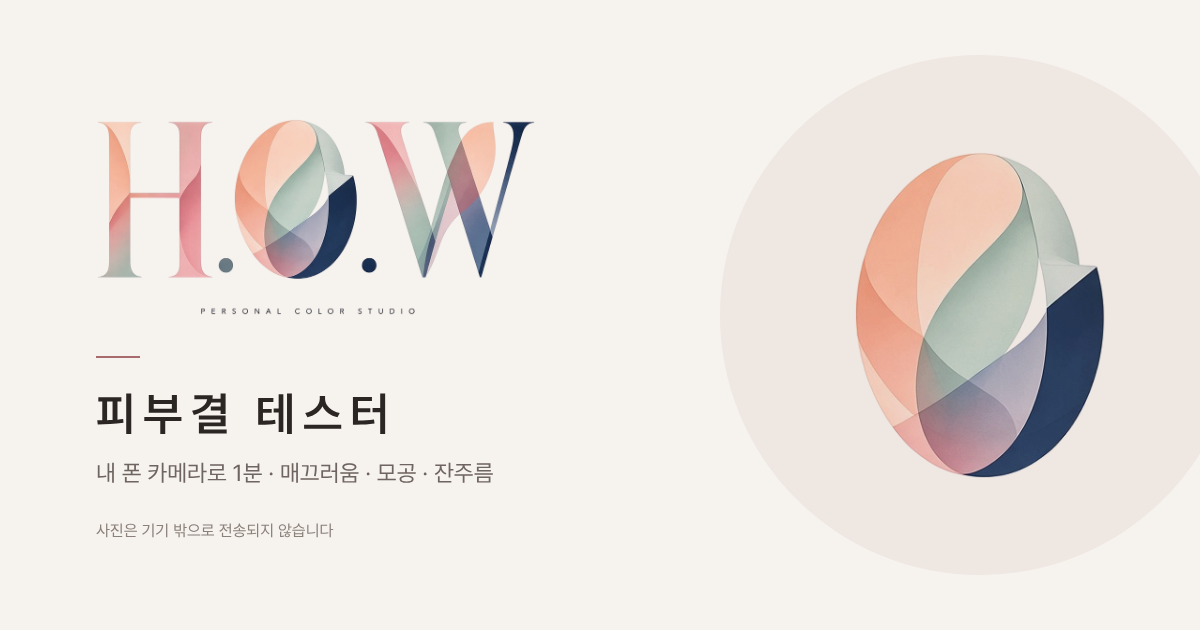
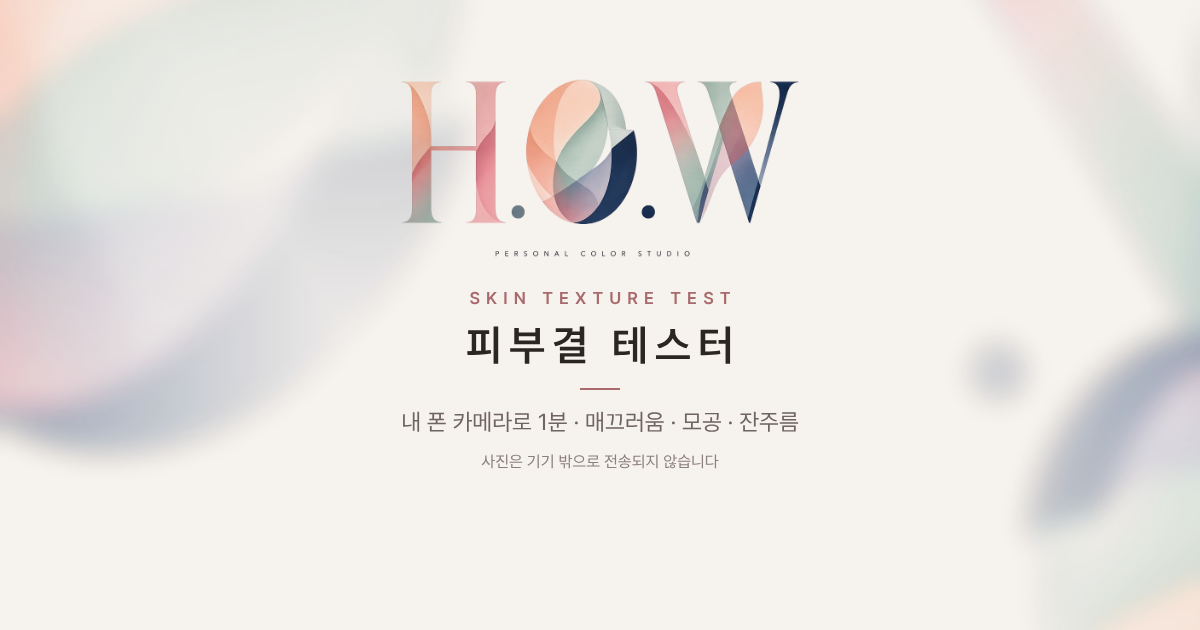
v1.8.0: 로고 수채 모티프로 앱 화면 · 리포트 · 공유 카드 · OG 비주얼 통일

diff --git a/index.html b/index.html
@@ -25,30 +25,32 @@
 <link rel="canonical" href="https://handj1998-del.github.io/skin-tester/">
 <link rel="preload" href="fonts/cg300.woff2" as="font" type="font/woff2" crossorigin>
 <link rel="manifest" href="manifest.webmanifest">
-<link rel="apple-touch-icon" href="icons/apple-touch-icon.png?v=1.7.1">
+<link rel="apple-touch-icon" href="icons/apple-touch-icon.png?v=1.8.0">
 <meta name="apple-mobile-web-app-title" content="피부결테스터">
 <meta name="application-name" content="피부결테스터">
 <meta name="apple-mobile-web-app-status-bar-style" content="default">
 <meta name="mobile-web-app-capable" content="yes">
-<link rel="icon" type="image/svg+xml" href="icons/favicon.svg?v=1.7.1">
-<link rel="icon" type="image/png" sizes="32x32" href="icons/favicon-32.png?v=1.7.1">
+<link rel="icon" type="image/svg+xml" href="icons/favicon.svg?v=1.8.0">
+<link rel="icon" type="image/png" sizes="32x32" href="icons/favicon-32.png?v=1.8.0">
 <link rel="preconnect" href="https://cdn.jsdelivr.net">
 <link rel="stylesheet" href="https://cdn.jsdelivr.net/gh/orioncactus/pretendard@v1.3.9/dist/web/static/pretendard.min.css" media="print" onload="this.media='all'">
 <noscript><link rel="stylesheet" href="https://cdn.jsdelivr.net/gh/orioncactus/pretendard@v1.3.9/dist/web/static/pretendard.min.css"></noscript>
-<link rel="stylesheet" href="style.css?v=1.7.1">
+<link rel="stylesheet" href="style.css?v=1.8.0">
 </head>
 <body>
 <div id="app">
 
   <!-- 1. 인트로 -->
-  <main><section id="screen-intro" class="screen active" aria-label="시작">
+  <main><section id="screen-intro" class="screen motif-bg active" aria-label="시작">
     <div class="intro-fold">
       <header class="brand-bar"><button class="refresh-btn" id="btn-refresh" type="button" aria-label="새로고침 (최신 버전 불러오기)"><svg class="i" viewBox="0 0 24 24" aria-hidden="true" fill="none" stroke="currentColor" stroke-width="1.4" stroke-linecap="round" stroke-linejoin="round"><path d="M20 11a8 8 0 1 0-2.3 5.7"/><path d="M20 5v6h-6"/></svg><span>새로고침</span></button></header>
       <div class="hero">
         <div class="hero-seal">
-          <img src="logo-full.png?v=1.7.1" srcset="logo-full@2x.png?v=1.7.1 2x, logo-full@3x.png?v=1.7.1 3x" alt="H.O.W Personal Color Studio" class="hero-logo" width="156" height="70">
+          <img src="logo-full.png?v=1.8.0" srcset="logo-full@2x.png?v=1.8.0 2x, logo-full@3x.png?v=1.8.0 3x" alt="H.O.W Personal Color Studio" class="hero-logo" width="156" height="70">
         </div>
+        <p class="hero-kicker">SKIN TEXTURE TEST</p>
         <h1>피부결 테스터</h1>
+        <i class="hero-rule" aria-hidden="true"></i>
         <p class="sub">폰 카메라로 매끄러움 · 모공 · 잔주름을 분석해요</p>
         <p class="intro-store" id="intro-store" hidden></p>
       </div>
@@ -146,8 +148,8 @@
   </section>
 
   <!-- 4. 결과 -->
-  <section id="screen-result" class="screen">
-    <header class="topbar"><button class="icon-btn plain" id="btn-res-home" aria-label="처음으로">‹</button><span class="topbar-title"><img src="logo.png?v=1.7.1" srcset="logo@2x.png?v=1.7.1 2x, logo@3x.png?v=1.7.1 3x" alt="H.O.W" class="topbar-logo" width="32" height="12"><em>분석 결과</em></span><span class="date" id="res-date"></span></header>
+  <section id="screen-result" class="screen motif-bg">
+    <header class="topbar"><button class="icon-btn plain" id="btn-res-home" aria-label="처음으로">‹</button><span class="topbar-title"><img src="logo.png?v=1.8.0" srcset="logo@2x.png?v=1.8.0 2x, logo@3x.png?v=1.8.0 3x" alt="H.O.W" class="topbar-logo" width="32" height="12"><em>분석 결과</em></span><span class="date" id="res-date"></span></header>
     <div class="card score-card needs-valid">
       <div class="ring" id="ring" role="img" aria-label="피부결 점수"><svg viewBox="0 0 120 120" aria-hidden="true"><circle cx="60" cy="60" r="52" class="track"/><circle cx="60" cy="60" r="52" class="bar" id="ring-bar"/></svg>
         <div class="ring-text"><b id="res-overall">0</b><small>피부결 점수</small></div></div>
@@ -199,8 +201,8 @@
   </section>
 
   <!-- 6. 얼굴 전체 분석 안내 -->
-  <section id="screen-face-intro" class="screen" aria-label="얼굴 전체 분석">
-    <header class="topbar"><button class="icon-btn plain" id="btn-fi-home" aria-label="처음으로">‹</button><span class="topbar-title"><img src="logo.png?v=1.7.1" srcset="logo@2x.png?v=1.7.1 2x, logo@3x.png?v=1.7.1 3x" alt="H.O.W" class="topbar-logo" width="32" height="12"><em>얼굴 전체 분석</em></span><span class="date">Beta</span></header>
+  <section id="screen-face-intro" class="screen motif-bg" aria-label="얼굴 전체 분석">
+    <header class="topbar"><button class="icon-btn plain" id="btn-fi-home" aria-label="처음으로">‹</button><span class="topbar-title"><img src="logo.png?v=1.8.0" srcset="logo@2x.png?v=1.8.0 2x, logo@3x.png?v=1.8.0 3x" alt="H.O.W" class="topbar-logo" width="32" height="12"><em>얼굴 전체 분석</em></span><span class="date">Beta</span></header>
     <div class="card face-intro">
       <svg class="fi-mark" viewBox="0 0 120 140" aria-hidden="true"><ellipse cx="60" cy="70" rx="44" ry="58" fill="none" stroke="#2b2523" stroke-opacity=".35" stroke-width="1.2"/><path d="M40 46h40M56 92h8" stroke="#a86a6c" stroke-width="1.2" stroke-linecap="round"/><circle cx="38" cy="78" r="9" fill="#a86a6c" fill-opacity=".18"/><circle cx="82" cy="78" r="9" fill="#a86a6c" fill-opacity=".18"/><path d="M60 52v26" stroke="#c4a050" stroke-opacity=".6" stroke-width="6" stroke-linecap="round"/></svg>
       <h2>얼굴 전체 분석</h2>
@@ -225,8 +227,8 @@
   </section>
 
   <!-- 7. 얼굴 전체 분석 결과 -->
-  <section id="screen-face" class="screen" aria-label="얼굴 분석 결과">
-    <header class="topbar"><button class="icon-btn plain" id="btn-face-home" aria-label="처음으로">‹</button><span class="topbar-title"><img src="logo.png?v=1.7.1" srcset="logo@2x.png?v=1.7.1 2x, logo@3x.png?v=1.7.1 3x" alt="H.O.W" class="topbar-logo" width="32" height="12"><em>얼굴 분석</em></span><span class="date" id="face-date"></span></header>
+  <section id="screen-face" class="screen motif-bg" aria-label="얼굴 분석 결과">
+    <header class="topbar"><button class="icon-btn plain" id="btn-face-home" aria-label="처음으로">‹</button><span class="topbar-title"><img src="logo.png?v=1.8.0" srcset="logo@2x.png?v=1.8.0 2x, logo@3x.png?v=1.8.0 3x" alt="H.O.W" class="topbar-logo" width="32" height="12"><em>얼굴 분석</em></span><span class="date" id="face-date"></span></header>
     <div class="card invalid-card face-invalid" id="face-invalid" role="alert" hidden>
       <canvas id="face-invalid-thumb" width="240" height="240" aria-hidden="true"></canvas>
       <h2>측정할 수 없는 사진이에요</h2>
@@ -271,8 +273,8 @@
   </section>
 
   <!-- 8. 부위별 종합 안내 -->
-  <section id="screen-zones-intro" class="screen" aria-label="부위별 종합 측정">
-    <header class="topbar"><button class="icon-btn plain" id="btn-zi-home" aria-label="처음으로">‹</button><span class="topbar-title"><img src="logo.png?v=1.7.1" srcset="logo@2x.png?v=1.7.1 2x, logo@3x.png?v=1.7.1 3x" alt="H.O.W" class="topbar-logo" width="32" height="12"><em>부위별 종합</em></span><span class="date"></span></header>
+  <section id="screen-zones-intro" class="screen motif-bg" aria-label="부위별 종합 측정">
+    <header class="topbar"><button class="icon-btn plain" id="btn-zi-home" aria-label="처음으로">‹</button><span class="topbar-title"><img src="logo.png?v=1.8.0" srcset="logo@2x.png?v=1.8.0 2x, logo@3x.png?v=1.8.0 3x" alt="H.O.W" class="topbar-logo" width="32" height="12"><em>부위별 종합</em></span><span class="date"></span></header>
     <div class="card zi-card">
       <div class="zi-ill" id="zi-ill" aria-hidden="true"></div>
       <h2>부위별 종합 측정</h2>
@@ -296,7 +298,7 @@
 
   <!-- 9. 부위별 단계 결과 -->
   <section id="screen-zone-step" class="screen" aria-label="부위 측정 결과">
-    <header class="topbar"><button class="icon-btn plain" id="btn-zs-home" aria-label="처음으로">‹</button><span class="topbar-title"><img src="logo.png?v=1.7.1" srcset="logo@2x.png?v=1.7.1 2x, logo@3x.png?v=1.7.1 3x" alt="H.O.W" class="topbar-logo" width="32" height="12"><em>부위별 종합</em></span><span class="date" id="zs-prog"></span></header>
+    <header class="topbar"><button class="icon-btn plain" id="btn-zs-home" aria-label="처음으로">‹</button><span class="topbar-title"><img src="logo.png?v=1.8.0" srcset="logo@2x.png?v=1.8.0 2x, logo@3x.png?v=1.8.0 3x" alt="H.O.W" class="topbar-logo" width="32" height="12"><em>부위별 종합</em></span><span class="date" id="zs-prog"></span></header>
     <div class="card zs-card">
       <div class="zs-head"><canvas id="zs-thumb" width="240" height="240" aria-hidden="true"></canvas><div><span class="rec-label" id="zs-label">1 / 5</span><b id="zs-name">이마</b><p id="zs-sum"></p></div></div>
       <div class="zs-metrics" id="zs-metrics"></div>
@@ -311,7 +313,7 @@
 
   <!-- 9b. 부위별 · 카메라 앱/앨범 사진으로 단계별 촬영 -->
   <section id="screen-zone-up" class="screen" aria-label="부위별 사진 촬영">
-    <header class="topbar"><button class="icon-btn plain" id="btn-zu-back" aria-label="뒤로">‹</button><span class="topbar-title"><img src="logo.png?v=1.7.1" srcset="logo@2x.png?v=1.7.1 2x, logo@3x.png?v=1.7.1 3x" alt="H.O.W" class="topbar-logo" width="32" height="12"><em>부위별 종합</em></span><span class="date" id="zu-prog"></span></header>
+    <header class="topbar"><button class="icon-btn plain" id="btn-zu-back" aria-label="뒤로">‹</button><span class="topbar-title"><img src="logo.png?v=1.8.0" srcset="logo@2x.png?v=1.8.0 2x, logo@3x.png?v=1.8.0 3x" alt="H.O.W" class="topbar-logo" width="32" height="12"><em>부위별 종합</em></span><span class="date" id="zu-prog"></span></header>
     <div class="card zi-card zu-card">
       <div class="zi-ill" id="zu-ill" aria-hidden="true"></div>
       <span class="rec-label" id="zu-label">1 / 5 단계</span>
@@ -329,8 +331,8 @@
   </section>
 
   <!-- 10. 부위별 종합 결과 -->
-  <section id="screen-zones" class="screen" aria-label="부위별 종합 결과">
-    <header class="topbar"><button class="icon-btn plain" id="btn-zr-home" aria-label="처음으로">‹</button><span class="topbar-title"><img src="logo.png?v=1.7.1" srcset="logo@2x.png?v=1.7.1 2x, logo@3x.png?v=1.7.1 3x" alt="H.O.W" class="topbar-logo" width="32" height="12"><em>종합 결과</em></span><span class="date" id="zr-date"></span></header>
+  <section id="screen-zones" class="screen motif-bg" aria-label="부위별 종합 결과">
+    <header class="topbar"><button class="icon-btn plain" id="btn-zr-home" aria-label="처음으로">‹</button><span class="topbar-title"><img src="logo.png?v=1.8.0" srcset="logo@2x.png?v=1.8.0 2x, logo@3x.png?v=1.8.0 3x" alt="H.O.W" class="topbar-logo" width="32" height="12"><em>종합 결과</em></span><span class="date" id="zr-date"></span></header>
     <div class="card score-card zr-score">
       <div class="ring" id="zr-ring" role="img" aria-label="종합 점수"><svg viewBox="0 0 120 120" aria-hidden="true"><circle cx="60" cy="60" r="52" class="track"/><circle cx="60" cy="60" r="52" class="bar" id="zr-ring-bar"/></svg>
         <div class="ring-text"><b id="zr-overall">0</b><small>부위별 종합 점수</small></div></div>
@@ -372,8 +374,8 @@
   </section>
 
   <!-- 5. 전체 결과 리포트 -->
-  <section id="screen-report" class="screen" aria-label="전체 결과 리포트">
-    <header class="topbar"><button class="icon-btn plain" id="btn-rep-back" aria-label="결과로 돌아가기">‹</button><span class="topbar-title"><img src="logo.png?v=1.7.1" srcset="logo@2x.png?v=1.7.1 2x, logo@3x.png?v=1.7.1 3x" alt="H.O.W" class="topbar-logo" width="32" height="12"><em>전체 결과 리포트</em></span><span class="date" id="rep-date"></span></header>
+  <section id="screen-report" class="screen motif-bg" aria-label="전체 결과 리포트">
+    <header class="topbar"><button class="icon-btn plain" id="btn-rep-back" aria-label="결과로 돌아가기">‹</button><span class="topbar-title"><img src="logo.png?v=1.8.0" srcset="logo@2x.png?v=1.8.0 2x, logo@3x.png?v=1.8.0 3x" alt="H.O.W" class="topbar-logo" width="32" height="12"><em>전체 결과 리포트</em></span><span class="date" id="rep-date"></span></header>
     <div class="card rep-form">
       <label for="rep-name">이름(선택)</label>
       <input id="rep-name" type="text" maxlength="20" autocomplete="off" autocapitalize="off" spellcheck="false" placeholder="리포트에 표시할 이름">
@@ -395,7 +397,7 @@
 
   <!-- 직원 설정 (숨은 진입: 첫 화면 로고 2초 길게 누르기 또는 버전 표시 5번 탭) -->
   <section id="screen-staff-pin" class="screen" aria-label="직원 설정 잠금">
-    <header class="topbar"><button class="icon-btn plain" id="btn-pin-home" aria-label="처음으로">‹</button><span class="topbar-title"><img src="logo.png?v=1.7.1" srcset="logo@2x.png?v=1.7.1 2x, logo@3x.png?v=1.7.1 3x" alt="H.O.W" class="topbar-logo" width="32" height="12"><em>직원 설정</em></span><span class="date"></span></header>
+    <header class="topbar"><button class="icon-btn plain" id="btn-pin-home" aria-label="처음으로">‹</button><span class="topbar-title"><img src="logo.png?v=1.8.0" srcset="logo@2x.png?v=1.8.0 2x, logo@3x.png?v=1.8.0 3x" alt="H.O.W" class="topbar-logo" width="32" height="12"><em>직원 설정</em></span><span class="date"></span></header>
     <div class="card pin-card">
       <span class="kicker" id="pin-kicker">Staff only</span>
       <h2 id="pin-title">PIN 4자리를 입력해 주세요</h2>
@@ -412,7 +414,7 @@
     </div>
   </section>
   <section id="screen-staff" class="screen" aria-label="직원 설정">
-    <header class="topbar"><button class="icon-btn plain" id="btn-staff-home" aria-label="잠그고 처음으로">‹</button><span class="topbar-title"><img src="logo.png?v=1.7.1" srcset="logo@2x.png?v=1.7.1 2x, logo@3x.png?v=1.7.1 3x" alt="H.O.W" class="topbar-logo" width="32" height="12"><em>직원 설정</em></span><span class="date">기기 설정</span></header>
+    <header class="topbar"><button class="icon-btn plain" id="btn-staff-home" aria-label="잠그고 처음으로">‹</button><span class="topbar-title"><img src="logo.png?v=1.8.0" srcset="logo@2x.png?v=1.8.0 2x, logo@3x.png?v=1.8.0 3x" alt="H.O.W" class="topbar-logo" width="32" height="12"><em>직원 설정</em></span><span class="date">기기 설정</span></header>
     <div class="card staff-warn" id="staff-defpin" hidden><b>기본 PIN(0000)을 사용 중이에요</b><p>고객이 설정을 바꾸지 않도록 PIN을 바꿔 주세요.</p><button type="button" class="btn ghost" id="btn-staff-pin2">PIN 바꾸기</button></div>
     <div class="card staff-card">
       <h3><span class="kicker">Auto reset</span>자동 초기화</h3>
@@ -463,8 +465,8 @@
   </div></div>
 </div>
 <canvas id="work-canvas" width="360" height="360" hidden></canvas>
-<script src="analyze.js?v=1.7.1"></script>
-<script src="recommend.js?v=1.7.1"></script>
-<script src="app.js?v=1.7.1"></script>
+<script src="analyze.js?v=1.8.0"></script>
+<script src="recommend.js?v=1.8.0"></script>
+<script src="app.js?v=1.8.0"></script>
 </body>
 </html>

diff --git a/app.js b/app.js
@@ -1,8 +1,8 @@
 (function () {
   'use strict';
   // ===== 버전: 단일 기준값 (sw.js 캐시 이름도 이 값을 사용, version.json과 함께 갱신) =====
-  const APP_VERSION = '1.7.1';
-  const BUILD_DATE = '2026-10-12';
+  const APP_VERSION = '1.8.0';
+  const BUILD_DATE = '2026-10-13';
   window.APP_VERSION = APP_VERSION;
   (function () { try { var f = document.createElement('div'); f.style.cssText = 'display:flex;flex-direction:column;row-gap:1px;position:absolute;visibility:hidden'; f.appendChild(document.createElement('div')); f.appendChild(document.createElement('div')); document.body.appendChild(f); var ok = f.scrollHeight === 1; f.remove(); if (!ok) document.documentElement.classList.add('no-flexgap'); } catch (e) {} })();
   const $ = (s) => document.querySelector(s);
@@ -485,6 +485,7 @@
     const F = 'Pretendard, -apple-system, "Apple SD Gothic Neo", sans-serif';
     const SERIF = '"Cormorant Garamond", Georgia, "Times New Roman", serif';
     const INK = '#2b2523', SUB = '#6f6560', ACC = '#a86a6c', LINE = 'rgba(43,37,35,.14)';
+    drawMotif(x, W, H, 1);
     // 테두리 프레임
     x.strokeStyle = LINE; x.lineWidth = 2; x.strokeRect(48, 48, W - 96, H - 96);
     x.textAlign = 'center';
@@ -527,6 +528,8 @@
     x.textAlign = al;
   }
   const LOGO = new Image(); LOGO.src = 'logo@3x.png?v=' + APP_VERSION;
+  const MOTIF = new Image(); MOTIF.src = 'motif.png?v=' + APP_VERSION; // 로고 글자에서 뽑은 수채 워시 (앱 · 리포트 · 공유 카드 공통)
+  function drawMotif(x, W, H, alpha) { if (!(MOTIF.complete && MOTIF.naturalWidth)) return; x.save(); x.globalAlpha = alpha || 1; const h = W * MOTIF.naturalHeight / MOTIF.naturalWidth; x.drawImage(MOTIF, 0, 0, W, h); x.restore(); }
   const LOGO_FULL = new Image(); LOGO_FULL.src = 'logo-full@3x.png?v=' + APP_VERSION; // PERSONAL COLOR STUDIO 포함
   function rr(x, X, Y, w, h, r) { x.beginPath(); x.moveTo(X + r, Y); x.arcTo(X + w, Y, X + w, Y + h, r); x.arcTo(X + w, Y + h, X, Y + h, r); x.arcTo(X, Y + h, X, Y, r); x.arcTo(X, Y, X + w, Y, r); x.closePath(); }
   let sharing = false;
@@ -784,7 +787,7 @@
     const x = c.getContext('2d');
     const F = 'Pretendard, -apple-system, "Apple SD Gothic Neo", sans-serif', SERIF = '"Cormorant Garamond", Georgia, serif';
     const INK = '#2b2523', SUB = '#6f6560', ACC = '#a86a6c', LINE = 'rgba(43,37,35,.14)';
-    x.fillStyle = '#f6f2ee'; x.fillRect(0, 0, W, H);
+    x.fillStyle = '#f6f2ee'; x.fillRect(0, 0, W, H); drawMotif(x, W, H, 1);
     x.strokeStyle = LINE; x.lineWidth = 2; x.strokeRect(48, 48, W - 96, H - 96);
     x.textAlign = 'center';
     if (LOGO_FULL.complete && LOGO_FULL.naturalWidth) { const lw = 260, lh = lw * LOGO_FULL.naturalHeight / LOGO_FULL.naturalWidth; x.drawImage(LOGO_FULL, W / 2 - lw / 2, 100, lw, lh); }
@@ -1114,7 +1117,7 @@
   function reportData() {
     const isFace = current.mode === 'face', S = REC.SEASONS[currentSeason()];
     const d = {
-      mode: isFace ? 'face' : current.mode === 'zones' ? 'zones' : 'closeup', ts: current.ts, name: reportName.trim(), version: APP_VERSION, url: APP_URL, logo: LOGO, logoFull: LOGO_FULL,
+      mode: isFace ? 'face' : current.mode === 'zones' ? 'zones' : 'closeup', ts: current.ts, name: reportName.trim(), version: APP_VERSION, url: APP_URL, logo: LOGO, logoFull: LOGO_FULL, motif: MOTIF,
       title: isFace ? '얼굴 피부 분석 리포트' : current.mode === 'zones' ? '부위별 종합 리포트' : '피부결 분석 리포트',
       care: current.care, makeup: current.makeup, tone: current.tone, season: S, estSeason: REC.SEASONS[current.tone.season], seasonChosen: getSeasonChoice() !== 'auto',
       skinRGB: current.skinRGB.map((v) => Math.round(v)), store: staff.store || '',
@@ -1153,7 +1156,7 @@
   async function buildReport() {
     const R = await loadReportLib();
     try { await Promise.all([document.fonts.load('300 110px "Cormorant Garamond"'), document.fonts.load('500 24px "Cormorant Garamond"')]); } catch (e) {}
-    for (const im of [LOGO, LOGO_FULL]) if (!im.complete) await new Promise((r) => { im.onload = im.onerror = r; setTimeout(r, 1500); });
+    for (const im of [LOGO, LOGO_FULL, MOTIF]) if (!im.complete) await new Promise((r) => { im.onload = im.onerror = r; setTimeout(r, 1500); });
     reportPages = R.render(reportData());
     const pv = $('#rep-preview'); pv.innerHTML = '';
     reportPages.forEach((c, i) => { c.setAttribute('role', 'img'); c.setAttribute('aria-label', `리포트 ${i + 1}쪽`); c.className = 'rep-page'; pv.appendChild(c); });
@@ -1615,6 +1618,7 @@
     reportImageBase64: async () => { if (!reportPages) await buildReport(); const b = await reportImageBlob(); return new Promise((r) => { const fr = new FileReader(); fr.onload = () => r(String(fr.result).split(',')[1]); fr.readAsDataURL(b); }); },
     reportPages: () => reportPages && reportPages.length,
     shareCard: () => (current && current.mode === 'face' ? buildFaceShareImage() : buildShareImage()).toDataURL('image/jpeg', 0.85),
+    reportPage: async (i) => { if (!reportPages) await buildReport(); return reportPages[i].toDataURL('image/jpeg', 0.85); },
     reportCover: async () => { if (!reportPages) await buildReport(); return reportPages[0].toDataURL('image/jpeg', 0.85); },
     state: () => ({ current: !!current, season: seasonChoice, name: reportName, ls: (() => { try { return Object.keys(localStorage); } catch (e) { return []; } })() }),
     setSeason: (v) => { setSeasonChoice(v); },

diff --git a/report.js b/report.js
@@ -50,8 +50,20 @@
     if (this.pages.length > 1) this.runningHeader();
   };
   Doc.prototype.ensure = function (h) { if (this.y + h > BOTTOM) { this.newPage(); return true; } return false; };
+  // 로고 수채 모티프 띠 (앱 화면 · 표지와 같은 이미지)
+  function motifBand(x, d, y0, h, alpha, flip) {
+    var m = d.motif; if (!(m && m.naturalWidth)) return;
+    var mh = W * m.naturalHeight / m.naturalWidth;
+    // 띠 끝이 잘려 보이지 않게 오프스크린에서 안쪽으로 부드럽게 사라지게
+    var c = document.createElement('canvas'); c.width = W; c.height = h; var o = c.getContext('2d');
+    if (flip) { o.translate(W, h); o.rotate(Math.PI); o.drawImage(m, 0, 0, W, mh); o.setTransform(1, 0, 0, 1, 0, 0); }
+    else o.drawImage(m, 0, 0, W, mh);
+    if (h < 400) { var g = o.createLinearGradient(0, flip ? h : 0, 0, flip ? 0 : h); g.addColorStop(0, 'rgba(0,0,0,1)'); g.addColorStop(0.45, 'rgba(0,0,0,.8)'); g.addColorStop(1, 'rgba(0,0,0,0)'); o.globalCompositeOperation = 'destination-in'; o.fillStyle = g; o.fillRect(0, 0, W, h); }
+    x.save(); x.globalAlpha = alpha; x.drawImage(c, 0, y0); x.restore();
+  }
   Doc.prototype.runningHeader = function () {
     var x = this.x, d = this.d, L = d.logo;
+    motifBand(x, d, 0, 128, 0.75);
     if (L && L.naturalWidth) { var lw = 92, lh = lw * L.naturalHeight / L.naturalWidth; x.drawImage(L, M, 56, lw, lh); }
     else { font(x, 600, 26); x.fillStyle = INK; x.fillText('H.O.W', M, 84); }
     font(x, 500, 19); x.fillStyle = MUTE; x.textAlign = 'right';
@@ -63,6 +75,7 @@
     var n = this.pages.length, d = this.d;
     this.pages.forEach(function (c, i) {
       var x = c.getContext('2d');
+      motifBand(x, d, H - 100, 100, 0.55, true);
       x.fillStyle = LINE; x.fillRect(M, H - 78, CW, 1.5);
       font(x, 400, 18); x.fillStyle = MUTE; x.textAlign = 'left';
       x.fillText('H.O.W 피부결 테스터' + (d.store ? ' · ' + d.store : '') + ' · v' + d.version + ' · 참고용 결과이며 의학적 진단이 아니에요', M, H - 46);
@@ -198,7 +211,7 @@
   // ---------- 표지 (1페이지 상단) ----------
   function cover(doc) {
     var x = doc.x, d = doc.d, L = d.logoFull || d.logo, y = 70;
-    x.fillStyle = SOFT; x.fillRect(0, 0, W, 560);
+    x.fillStyle = SOFT; x.fillRect(0, 0, W, 560); motifBand(x, d, 0, 560, 1);
     if (L && L.naturalWidth) { var lw = 270, lh = lw * L.naturalHeight / L.naturalWidth; x.drawImage(L, W / 2 - lw / 2, y, lw, lh); y += lh; }
     else { font(x, 600, 64); x.fillStyle = INK; x.textAlign = 'center'; x.fillText('H.O.W', W / 2, y + 60); x.textAlign = 'left'; y += 70; }
     font(x, 600, 17); x.fillStyle = ACC; x.textAlign = 'center'; spaced(x, d.mode === 'face' ? 'FACE SKIN REPORT' : d.mode === 'zones' ? 'ZONE SKIN REPORT' : 'SKIN TEXTURE REPORT', W / 2, y + 62, 6, 'center');

diff --git a/sw.js b/sw.js
@@ -4,7 +4,7 @@ const VERSION = new URL(self.location.href).searchParams.get('v') || 'dev';
 const CACHE = 'skin-tester-' + VERSION;
 // 얼굴 분석 도구(face/)는 용량이 커서 별도 캐시에 캐시 우선으로 보관 — 앱 버전이 바뀌어도 다시 받지 않음
 const FACE_CACHE = 'how-face-mp101';
-const SHELL = ['./', 'style.css?v=' + VERSION, 'app.js?v=' + VERSION, 'analyze.js?v=' + VERSION, 'recommend.js?v=' + VERSION, 'report.js?v=' + VERSION, 'manifest.webmanifest', 'logo.png', 'logo@2x.png', 'logo@3x.png', 'logo-full.png', 'logo-full@2x.png', 'logo-full@3x.png', 'icons/icon-192.png', 'icons/favicon-32.png', 'icons/icon.svg', 'icons/favicon.svg', 'fonts/cg300.woff2', 'fonts/cg500.woff2'];
+const SHELL = ['./', 'style.css?v=' + VERSION, 'app.js?v=' + VERSION, 'analyze.js?v=' + VERSION, 'recommend.js?v=' + VERSION, 'report.js?v=' + VERSION, 'manifest.webmanifest', 'logo.png', 'logo@2x.png', 'logo@3x.png', 'logo-full.png', 'logo-full@2x.png', 'logo-full@3x.png', 'motif.png', 'icons/icon-192.png', 'icons/favicon-32.png', 'icons/icon.svg', 'icons/favicon.svg', 'fonts/cg300.woff2', 'fonts/cg500.woff2'];
 self.addEventListener('install', (e) => { e.waitUntil(caches.open(CACHE).then((c) => c.addAll(SHELL.map((u) => new Request(u, { cache: 'reload' })))).then(() => self.skipWaiting())); });
 self.addEventListener('activate', (e) => { e.waitUntil(caches.keys().then((ks) => Promise.all(ks.filter((k) => k !== CACHE && k !== FACE_CACHE).map((k) => caches.delete(k)))).then(() => self.clients.claim())); });
 self.addEventListener('fetch', (e) => {

diff --git a/style.css b/style.css
@@ -708,3 +708,11 @@ body.has-dock .screen.active{padding-bottom:calc(96px + var(--safe-b))}
   @media (max-height:680px){.intro-fold .hero-seal{width:126px;height:auto}}
   @media (min-height:800px){.intro-fold .hero-seal{width:180px;height:auto}}
 }
+
+/* v1.8.0 공통 비주얼: 로고 수채 모티프 + 같은 타이포 위계 (리포트 표지 · 공유 카드와 같은 이미지) */
+.motif-bg{background-image:url(motif.png?v=1.8.0);background-repeat:no-repeat;background-position:50% 0;background-size:100% auto}
+#screen-intro.motif-bg{background-size:150% auto;background-position:50% 0}
+.hero-kicker{margin:0 0 8px;font-size:11px;font-weight:600;letter-spacing:.32em;text-indent:.32em;color:var(--accent)}
+.intro-fold h1,.hero h1{margin:0}
+.hero-rule{display:block;width:28px;height:1.5px;background:var(--accent);margin:12px auto 12px}
+@media (max-height:600px){.hero-kicker{margin-bottom:4px}.hero-rule{margin:8px auto}}
